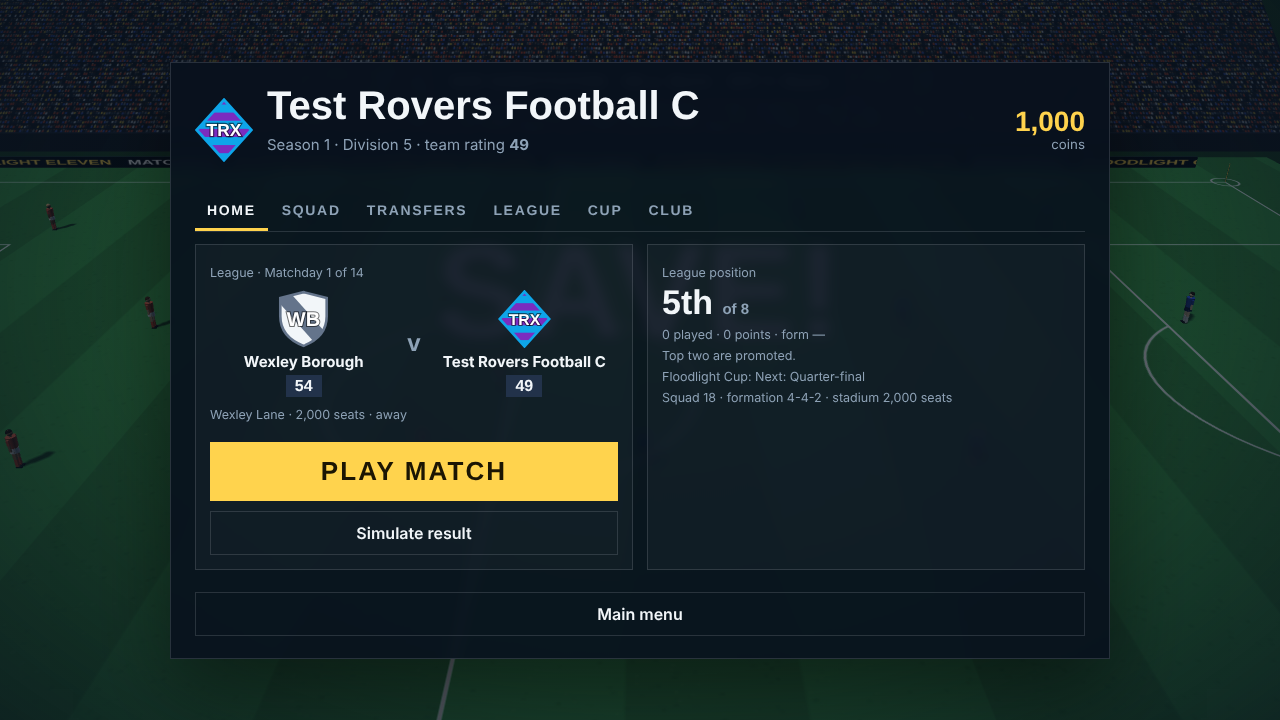
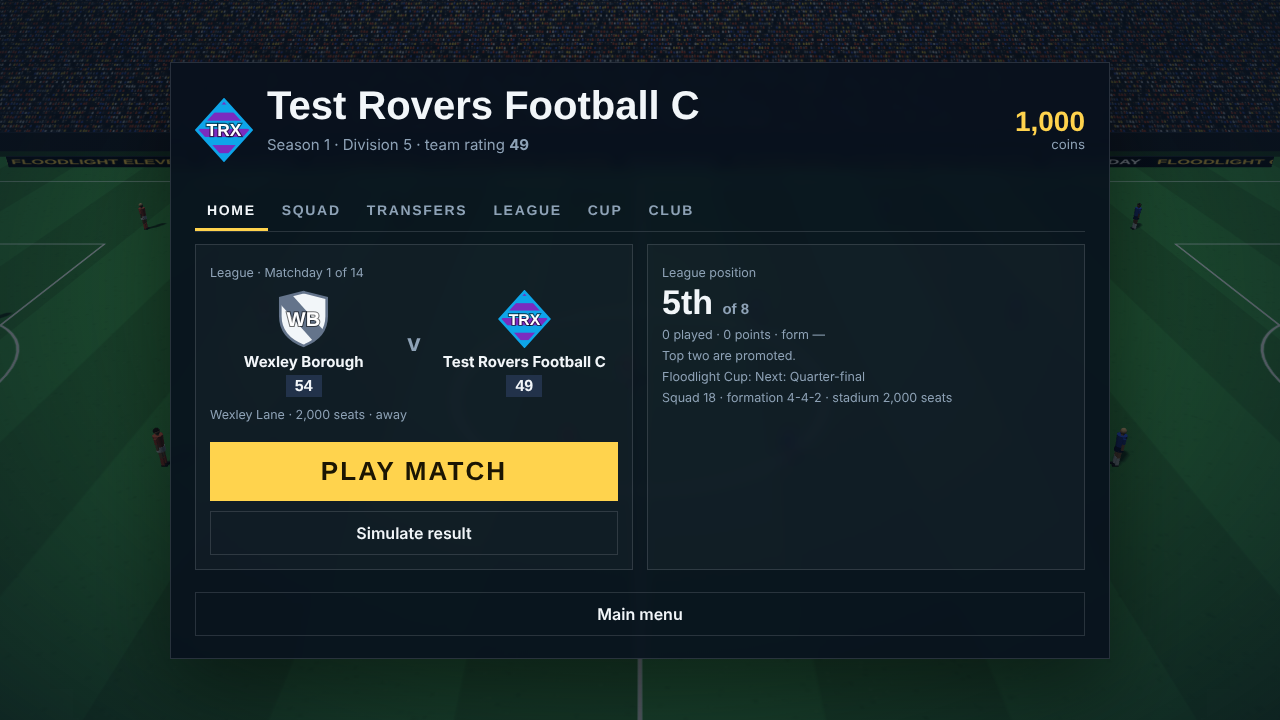
Export career saves through the viewer's download prompt when available
Claude-Session: https://claude.ai/code/session_019469XLpKTMrEVJKHG95R4q

diff --git a/floodlight-eleven.html b/floodlight-eleven.html
@@ -1753,6 +1753,19 @@ function renderCareer(){
   const el=$('careerBody');
   el.innerHTML=!career?renderCreate():cv.result?renderResult():cv.season?renderSeason():renderHub();
 }
+// export: through the claude.ai viewer's download prompt when the page runs there, otherwise an ordinary file download
+let downloadsNs;
+async function exportCareer(){
+  const name=`floodlight-eleven-${career.club.short.toLowerCase()}-season${career.season}.json`,data=JSON.stringify(career,null,1);
+  if(downloadsNs===undefined)downloadsNs=window.claude&&window.claude.use?await window.claude.use('downloads').catch(()=>null):null;
+  if(downloadsNs){
+    try{await downloadsNs.save({filename:name,data});cv.msg='Save exported.';}
+    catch(e){cv.msg=e&&e.code==='declined'?'Export cancelled.':'Export is not available here.';}
+    renderCareer();return;
+  }
+  const url=URL.createObjectURL(new Blob([data],{type:'application/json'})),l=document.createElement('a');
+  l.href=url;l.download=name;document.body.appendChild(l);l.click();l.remove();setTimeout(()=>URL.revokeObjectURL(url),2000);
+}
 function careerTarget(){return career?career.club:cv.draft;}
 $('careerBody').addEventListener('click',e=>{
   const b=e.target.closest('[data-act]');if(!b)return;const a=b.dataset.act,v=b.dataset.v;
@@ -1772,7 +1785,7 @@ $('careerBody').addEventListener('click',e=>{
     case 'buy':buy(+b.dataset.i);break;
     case 'sell':sell(b.dataset.id);break;
     case 'upgrade':upgradeStadium();break;
-    case 'export':{const url=URL.createObjectURL(new Blob([JSON.stringify(career,null,1)],{type:'application/json'}));const l=document.createElement('a');l.href=url;l.download=`floodlight-eleven-${career.club.short.toLowerCase()}-season${career.season}.json`;document.body.appendChild(l);l.click();l.remove();setTimeout(()=>URL.revokeObjectURL(url),2000);return;}
+    case 'export':exportCareer();return;
     case 'import':$('importFile').click();return;
     case 'delete':if(confirm('Delete this career? This cannot be undone.')){career=null;cv.draft=null;cv.result=cv.season=null;saveCareer();}break;
     case 'ack-result':cv.result=null;break;
